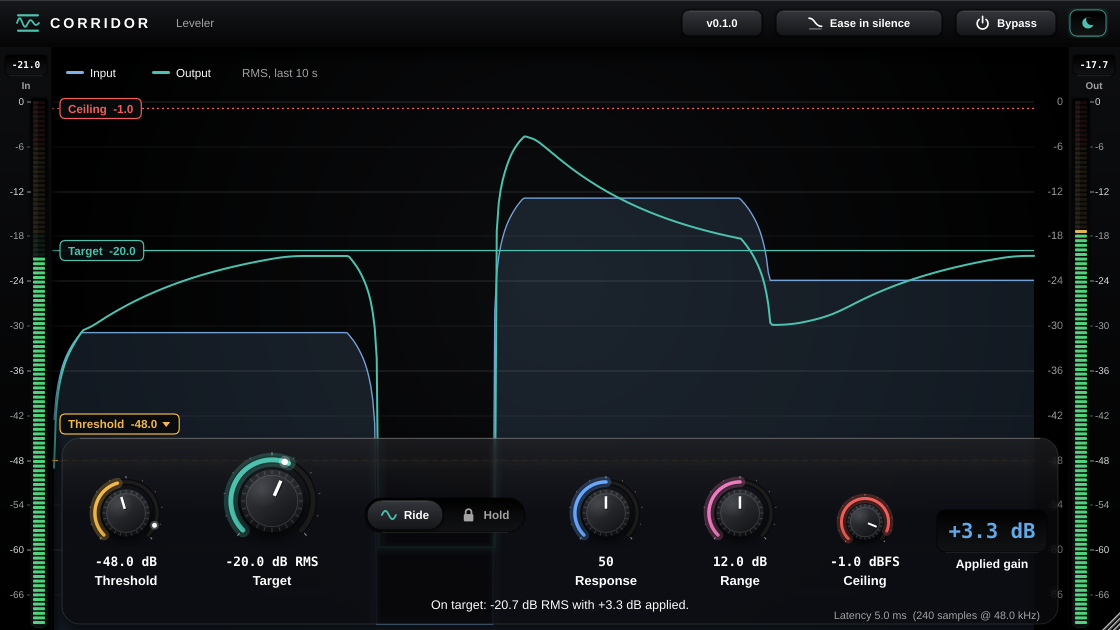
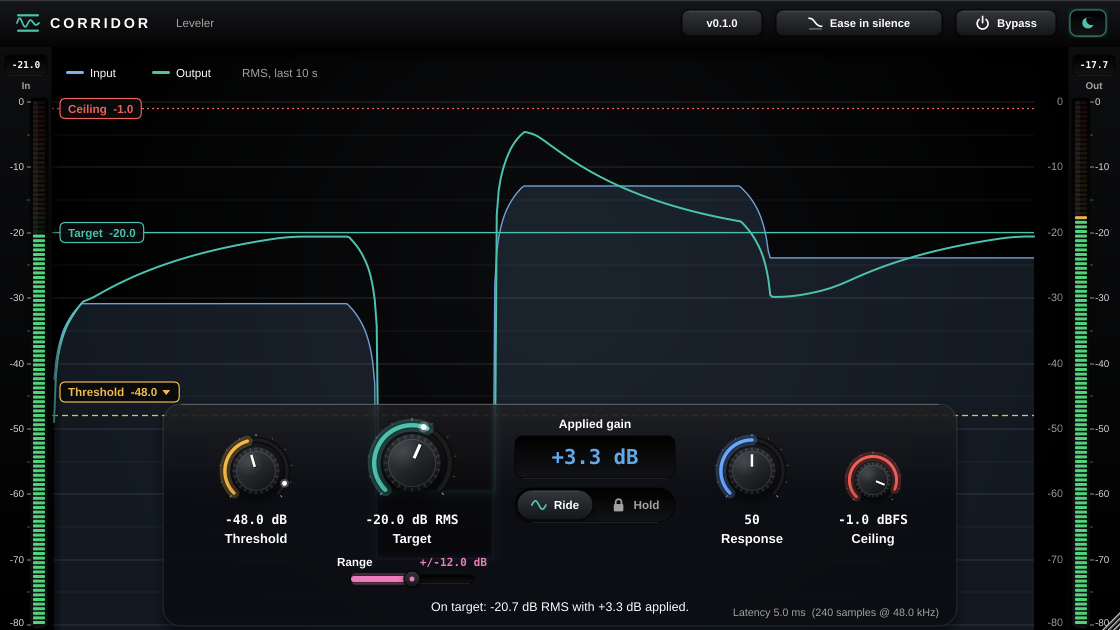
Range slider under Target, gain readout over Ride/Hold, centred controls, -80 dB floor
- The graph and both meters now run 0 to -80 dB, marked every 5 dB and
  labelled every 10, at identical heights.
- Range is a horizontal slider directly under the Target dial.
- The applied-gain readout sits in the middle, just above the Ride/Hold
  switch (Analyze below it in Hold mode).
- All controls form one compact row in the middle on a glass panel only as
  wide as the controls, away from the window sides.
- Windows only: the non-Windows update path is gone; README says so.

Claude-Session: https://claude.ai/code/session_01CanfjbYGj3wn9jArq6JY2J

diff --git a/plugin/src/PluginEditor.cpp b/plugin/src/PluginEditor.cpp
@@ -52,7 +52,7 @@ String fmtDb(float v, int dec = 1, bool sign = false) {
     return s;
 }
 
-constexpr float kTop = 54.f, kDbRange = 70.f;  // graph and meters share this 0 dB line
+constexpr float kTop = 54.f, kDbRange = 80.f;  // graph and meters share this 0 dB line
 constexpr int kHist = 500;  // 10 s at 20 ms per entry
 constexpr float kPi = MathConstants<float>::pi;
 
@@ -245,6 +245,27 @@ public:
         }
     }
 
+    void drawLinearSlider(Graphics& g, int x, int y, int w, int h, float pos, float, float, Slider::SliderStyle style, Slider& s) override {
+        if (style != Slider::LinearHorizontal) { LookAndFeel_V4::drawLinearSlider(g, x, y, w, h, pos, 0.f, 0.f, style, s); return; }
+        const Theme& c = *t;
+        const float cy = float(y) + float(h) * 0.5f, x0 = float(x) + 8.f, x1 = float(x + w) - 8.f;
+        const auto track = Rectangle<float>(x0, cy - 4.f, x1 - x0, 8.f);
+        drawWell(g, c, track, 4.f);
+        const Colour rc = c.rng;
+        const float px = jlimit(x0, x1, pos);
+        if (px > x0 + 1.f) {
+            const auto fill = track.withRight(px).reduced(1.f);
+            g.setColour(rc.withAlpha(c.dark ? 0.25f : 0.18f)); g.fillRoundedRectangle(fill.expanded(0.f, 3.f), 5.f);
+            g.setColour(rc); g.fillRoundedRectangle(fill, 3.f);
+        }
+        const float r = 8.f;
+        Path cap; cap.addEllipse(px - r, cy - r, r * 2.f, r * 2.f);
+        DropShadow(Colours::black.withAlpha(c.shadow * 0.8f), 6, {0, 2}).drawForPath(g, cap);
+        g.setGradientFill(ColourGradient(c.capTop, px, cy - r, c.capBottom, px, cy + r, false)); g.fillPath(cap);
+        g.setColour(s.isMouseOverOrDragging() ? rc : c.edge); g.strokePath(cap, PathStrokeType(1.2f));
+        g.setColour(rc); g.fillEllipse(px - 2.5f, cy - 2.5f, 5.f, 5.f);
+    }
+
     Label* createSliderTextBox(Slider& s) override {
         auto* l = LookAndFeel_V4::createSliderTextBox(s);
         l->setFont(mono(15.f, true));
@@ -349,6 +370,35 @@ private:
     std::unique_ptr<AudioProcessorValueTreeState::SliderAttachment> att;
 };
 
+// ---------------------------------------------------------------- range slider (sits under the Target dial)
+class RangeStrip : public Component {
+public:
+    explicit RangeStrip(AudioProcessorValueTreeState& st) {
+        slider.setSliderStyle(Slider::LinearHorizontal);
+        slider.setTextBoxStyle(Slider::NoTextBox, false, 0, 0);
+        slider.setTitle("Range");
+        addAndMakeVisible(slider);
+        att = std::make_unique<AudioProcessorValueTreeState::SliderAttachment>(st, ids::range, slider);
+        if (auto* p = st.getParameter(ids::range)) slider.setDoubleClickReturnValue(true, p->convertFrom0to1(p->getDefaultValue()));
+        slider.onValueChange = [this] { repaint(); };
+        setInterceptsMouseClicks(false, true);
+    }
+    void resized() override { slider.setBounds(getLocalBounds().withTrimmedTop(16)); }
+    void paint(Graphics& g) override {
+        auto* lf = dynamic_cast<Look*>(&getLookAndFeel());
+        const Theme& t = lf ? *lf->t : kDark;
+        auto top = getLocalBounds().removeFromTop(16).reduced(4, 0);
+        g.setFont(sans(13.f, true)); g.setColour(t.ink);
+        g.drawText("Range", top, Justification::centredLeft);
+        g.setFont(mono(13.f, true)); g.setColour(t.rng);
+        g.drawText("+/-" + String(slider.getValue(), 1) + " dB", top, Justification::centredRight);
+    }
+    Slider slider;
+
+private:
+    std::unique_ptr<AudioProcessorValueTreeState::SliderAttachment> att;
+};
+
 // ---------------------------------------------------------------- graph
 class Graph : public Component {
 public:
@@ -371,10 +421,14 @@ public:
         }
         // grid + scale
         g.setFont(sans(12.f));
-        for (int v = 0; v >= -66; v -= 6) {
+        for (int v = 0; v >= -80; v -= 5) {
             const float y = std::round(yOf(float(v))) + 0.5f;
-            g.setColour(c.muted.withAlpha(v % 12 == 0 ? 0.22f : 0.11f)); g.fillRect(0.f, y, x1, 1.f);
-            g.setColour(c.muted); g.drawText(v == 0 ? "0" : String(v), Rectangle<float>(x1, y - 7.f, scaleW - 5.f, 14.f), Justification::centredRight);
+            const bool major = v % 10 == 0;
+            g.setColour(c.muted.withAlpha(major ? 0.22f : 0.1f)); g.fillRect(0.f, y, x1, 1.f);
+            if (major) {
+                g.setColour(c.muted);
+                g.drawText(v == 0 ? "0" : String(v), Rectangle<float>(x1, jmin(y - 7.f, H - 15.f), scaleW - 5.f, 14.f), Justification::centredRight);
+            }
         }
         // traces
         const int n = int(hist.size());
@@ -525,21 +579,22 @@ public:
         for (float yy = bot - segH; yy >= top - 0.5f; yy -= segH + gap) {
             const float v = -(yy + segH * 0.5f - top) / (bot - top) * kDbRange;
             const Colour col = v > -6.f ? c.limit : v > -18.f ? c.warn : c.meterLo;
-            const bool lit = v <= peak, isHold = hold > -70.f && std::abs(v - hold) < kDbRange / (bot - top) * (segH + gap) * 0.5f;
+            const bool lit = v <= peak, isHold = hold > -80.f && std::abs(v - hold) < kDbRange / (bot - top) * (segH + gap) * 0.5f;
             g.setColour(lit || isHold ? col : col.withAlpha(c.dark ? 0.1f : 0.13f));
             g.fillRoundedRectangle(bx, yy, bw, segH, 1.f);
         }
         g.setColour(Colours::white.withAlpha(c.dark ? 0.05f : 0.25f));
         g.fillRect(bx, top, bw * 0.4f, bot - top);  // glass
-        // the same marks as the graph: every 6 dB from 0 to -66, at the same heights
+        // the same marks as the graph: every 5 dB from 0 to -80, labelled every 10, at the same heights
         g.setFont(sans(11.f));
-        for (int v = 0; v >= -66; v -= 6) {
+        for (int v = 0; v >= -80; v -= 5) {
             const float yy = std::round(y(float(v))) + 0.5f;
-            const bool major = v % 12 == 0;
+            const bool major = v % 10 == 0;
             g.setColour(c.muted.withAlpha(major ? 0.9f : 0.5f));
             g.fillRect(input ? bx - 6.f : bx + bw + 3.f, yy, major ? 4.f : 3.f, 1.f);
-            g.setColour(major ? c.ink.withAlpha(0.85f) : c.muted);
-            g.drawText(v == 0 ? "0" : String(v), Rectangle<float>(input ? 0.f : bx + bw + 8.f, yy - 6.f, input ? bx - 9.f : W - bx - bw - 8.f, 12.f),
+            if (!major) continue;
+            g.setColour(c.ink.withAlpha(0.85f));
+            g.drawText(v == 0 ? "0" : String(v), Rectangle<float>(input ? 0.f : bx + bw + 8.f, jmin(yy - 6.f, H - 13.f), input ? bx - 9.f : W - bx - bw - 8.f, 12.f),
                        input ? Justification::centredRight : Justification::centredLeft);
         }
         auto hb = Rectangle<float>(5.f, 8.f, W - 10.f, 20.f);
@@ -564,11 +619,11 @@ public:
     String gainText = "+0.0";
     int gainSign = 0;
     String latencyText;
-    Rectangle<int> gainBox, modeTrack;
+    Rectangle<int> gainBox, modeTrack, panelRect;
     void paint(Graphics& g) override {
         const Theme& c = *t;
         // frosted glass: the graph behind, rendered small and stretched back (a cheap blur), then tinted
-        const auto panel = getLocalBounds().toFloat().reduced(10.f, 6.f);
+        const auto panel = (panelRect.isEmpty() ? getLocalBounds().reduced(10, 6) : panelRect).toFloat();
         Path p; p.addRoundedRectangle(panel, 18.f);
         DropShadow(Colours::black.withAlpha(c.dark ? 0.55f : 0.18f), 22, {0, 6}).drawForPath(g, p);
         {
@@ -588,15 +643,16 @@ public:
         g.drawLine(panel.getX() + 18.f, panel.getY() + 0.5f, panel.getRight() - 18.f, panel.getY() + 0.5f, 1.f);
         if (!modeTrack.isEmpty()) drawWell(g, c, modeTrack.toFloat(), float(modeTrack.getHeight()) * 0.5f);
         // applied gain, in an inset display
-        const auto disp = gainBox.withHeight(42).toFloat();
+        g.setFont(sans(13.5f, true)); g.setColour(c.ink);
+        g.drawText("Applied gain", gainBox.withHeight(16), Justification::centred);
+        const auto disp = gainBox.withTrimmedTop(20).withHeight(42).toFloat();
         drawWell(g, c, disp, 8.f);
         g.setFont(mono(24.f, true));
         g.setColour(gainSign > 0 ? c.boost : gainSign < 0 ? c.cut : c.ink); g.drawText(gainText + " dB", disp, Justification::centred);
-        g.setFont(sans(13.5f, true)); g.setColour(c.ink);
-        g.drawText("Applied gain", gainBox.withTrimmedTop(46).withHeight(16), Justification::centred);
+
         // latency, bottom-right corner
         g.setFont(sans(12.f)); g.setColour(c.muted);
-        g.drawText(latencyText, getLocalBounds().removeFromBottom(30).reduced(28, 0), Justification::centredRight);
+        g.drawText(latencyText, panel.toNearestInt().removeFromBottom(28).reduced(18, 0), Justification::centredRight);
     }
 
 private:
@@ -737,9 +793,9 @@ public:
         : proc(p),
           graph(p, theme), meterIn(true, theme, p.core()), meterOut(false, theme, p.core()), deck(theme, graph),
           threshold(p.state(), ids::threshold, "Threshold", "dB", 1, 72.f, "thr"),
-          target(p.state(), ids::target, "Target", "dB RMS", 1, 96.f, "tgt"),
+          target(p.state(), ids::target, "Target", "dB RMS", 1, 88.f, "tgt"),
           response(p.state(), ids::response, "Response", "", 0, 72.f, "resp"),
-          range(p.state(), ids::range, "Range", "dB", 1, 72.f, "rng"),
+          range(p.state()),
           ceiling(p.state(), ids::ceiling, "Ceiling", "dBFS", 1, 54.f, "ceil"),
           tags(graph), about(*checker, theme), prompt(*checker, theme) {
         theme = p.darkTheme ? &kDark : &kLight;
@@ -750,7 +806,7 @@ public:
         addAndMakeVisible(graph);
         addAndMakeVisible(deck);
         addAndMakeVisible(tags);
-        for (auto* k : {&threshold, &target, &response, &range, &ceiling}) deck.addAndMakeVisible(*k);
+        for (Component* k : std::initializer_list<Component*>{&threshold, &target, &range, &response, &ceiling}) deck.addAndMakeVisible(*k);
 
         for (auto* b : {&ride, &hold}) {
             b->setClickingTogglesState(false);
@@ -874,30 +930,35 @@ public:
         meterIn.setBounds(body.removeFromLeft(52));
         meterOut.setBounds(body.removeFromRight(52));
         graph.setBounds(body);
-        const int deckH = 198;
+        const int deckH = 230;
         deck.setBounds(body.getX(), body.getBottom() - deckH, body.getWidth(), deckH);
         tags.setBounds(graph.getBounds());
         graph.chipLimit = float(deck.getY() - graph.getY() + 6);
 
-        // deck: knobs and mode controls centred as one row
-        const int gap = 28, centerW = 160, gainW = 110;
-        Knob* left[] = {&threshold, &target};
-        Knob* right[] = {&response, &range, &ceiling};
-        int total = centerW + gainW + gap * 6;
-        for (auto* k : left) total += k->preferredWidth();
-        for (auto* k : right) total += k->preferredWidth();
+        // deck: one compact row in the middle, on a glass panel only as wide as the controls.
+        // Threshold | Target with Range under it | Applied gain over Ride/Hold (Analyze) | Response | Ceiling
+        const int gap = 24, centerW = 160, targetW = 158, labelRow = 34;
+        const int total = threshold.preferredWidth() + targetW + centerW + response.preferredWidth() + ceiling.preferredWidth() + gap * 4;
         int x = (deck.getWidth() - total) / 2;
-        const int rowBottom = deckH - 40;
-        auto place = [&](Knob* k) { k->setBounds(x, rowBottom - k->preferredHeight(), k->preferredWidth(), k->preferredHeight()); x += k->preferredWidth() + gap; };
-        for (auto* k : left) place(k);
-        ride.setBounds(x, rowBottom - 92, centerW / 2, 34);
-        hold.setBounds(x + centerW / 2, rowBottom - 92, centerW / 2, 34);
-        deck.modeTrack = Rectangle<int>(x, rowBottom - 92, centerW, 34);
-        analyze.setBounds(x, rowBottom - 48, centerW, 32);
+        const int rowBottom = deckH - 48, knobBottom = rowBottom - labelRow;
+        auto place = [&](Knob& k, int colW) {
+            k.setBounds(x + (colW - k.preferredWidth()) / 2, knobBottom - k.preferredHeight(), k.preferredWidth(), k.preferredHeight());
+            x += colW + gap;
+        };
+        place(threshold, threshold.preferredWidth());
+        range.setBounds(x, knobBottom + 6, targetW, 34);
+        place(target, targetW);
+        const int top = knobBottom - target.preferredHeight();
+        deck.gainBox = Rectangle<int>(x, top, centerW, 62);
+        ride.setBounds(x, top + 72, centerW / 2, 34);
+        hold.setBounds(x + centerW / 2, top + 72, centerW / 2, 34);
+        deck.modeTrack = Rectangle<int>(x, top + 72, centerW, 34);
+        analyze.setBounds(x, top + 114, centerW, 32);
         x += centerW + gap;
-        for (auto* k : right) place(k);
-        deck.gainBox = Rectangle<int>(x, rowBottom - 80, gainW, 64);
-        status.setBounds(0, deckH - 36, deck.getWidth(), 22);
+        place(response, response.preferredWidth());
+        place(ceiling, ceiling.preferredWidth());
+        deck.panelRect = Rectangle<int>((deck.getWidth() - total) / 2 - 40, 4, total + 80, deckH - 8);
+        status.setBounds(0, deckH - 34, deck.getWidth(), 22);
     }
 
     void tick() {
@@ -976,7 +1037,9 @@ private:
     Graph graph;
     Meter meterIn, meterOut;
     Deck deck;
-    Knob threshold, target, response, range, ceiling;
+    Knob threshold, target, response;
+    RangeStrip range;
+    Knob ceiling;
     TextButton ride{"Ride"}, hold{"Hold"}, analyze{"Analyze"};
     TextButton ease{"Ease in silence"}, bypass{"Bypass"}, themeBtn{"Dark theme"};
     TextButton versionBtn{"v0"}, updateBtn{"Update"};

diff --git a/plugin/src/Updates.cpp b/plugin/src/Updates.cpp
@@ -243,9 +243,9 @@ void Checker::doInstall() {
 #if JUCE_WINDOWS
     if (!out.startAsProcess()) { fail("Couldn't open the installer. Download the update from the release page instead."); return; }
     { std::lock_guard<std::mutex> g(lock); messageText = "The installer is open. When it asks, close OBS or your DAW, then reopen them."; }
-#else
-    URL(r.page).launchInDefaultBrowser();
-    { std::lock_guard<std::mutex> g(lock); messageText = "The installer is for Windows. The release page is open in your browser."; }
+#else  // Corridor Leveler ships for Windows only; other builds exist just to run the tests
+    fail("Updates install on Windows.");
+    return;
 #endif
     prompt = false;
 }

diff --git a/README.md b/README.md
@@ -2,7 +2,7 @@
 
 An automatic level rider for streaming and recording. Set a target and Corridor keeps your audio
 there: quiet passages are lifted, loud ones lowered, silence and room noise are never boosted, and
-the output never goes past the ceiling. Built for OBS on Windows, and works in any DAW.
+the output never goes past the ceiling. A Windows app: for OBS and any Windows DAW.
 
 ![Corridor Leveler window](docs/window-dark.png)
 
@@ -76,8 +76,9 @@ cmake --build build --config Release --parallel
 ctest --test-dir build --output-on-failure
 ```
 
-JUCE, FST and the libobs headers are downloaded at configure time. On Linux you also need the usual JUCE
-libraries (ALSA, X11, FreeType, Fontconfig). Options: `CORRIDOR_BUILD_PLUGIN`, `CORRIDOR_BUILD_OBS`,
+JUCE, FST and the libobs headers are downloaded at configure time. Corridor Leveler ships for Windows only;
+the CI also builds on Linux purely to run the tests and render the window screenshots (that needs ALSA, X11,
+FreeType and Fontconfig development libraries). Options: `CORRIDOR_BUILD_PLUGIN`, `CORRIDOR_BUILD_OBS`,
 `CORRIDOR_BUILD_VST2`, `CORRIDOR_BUILD_TESTS`.
 
 Tests:
